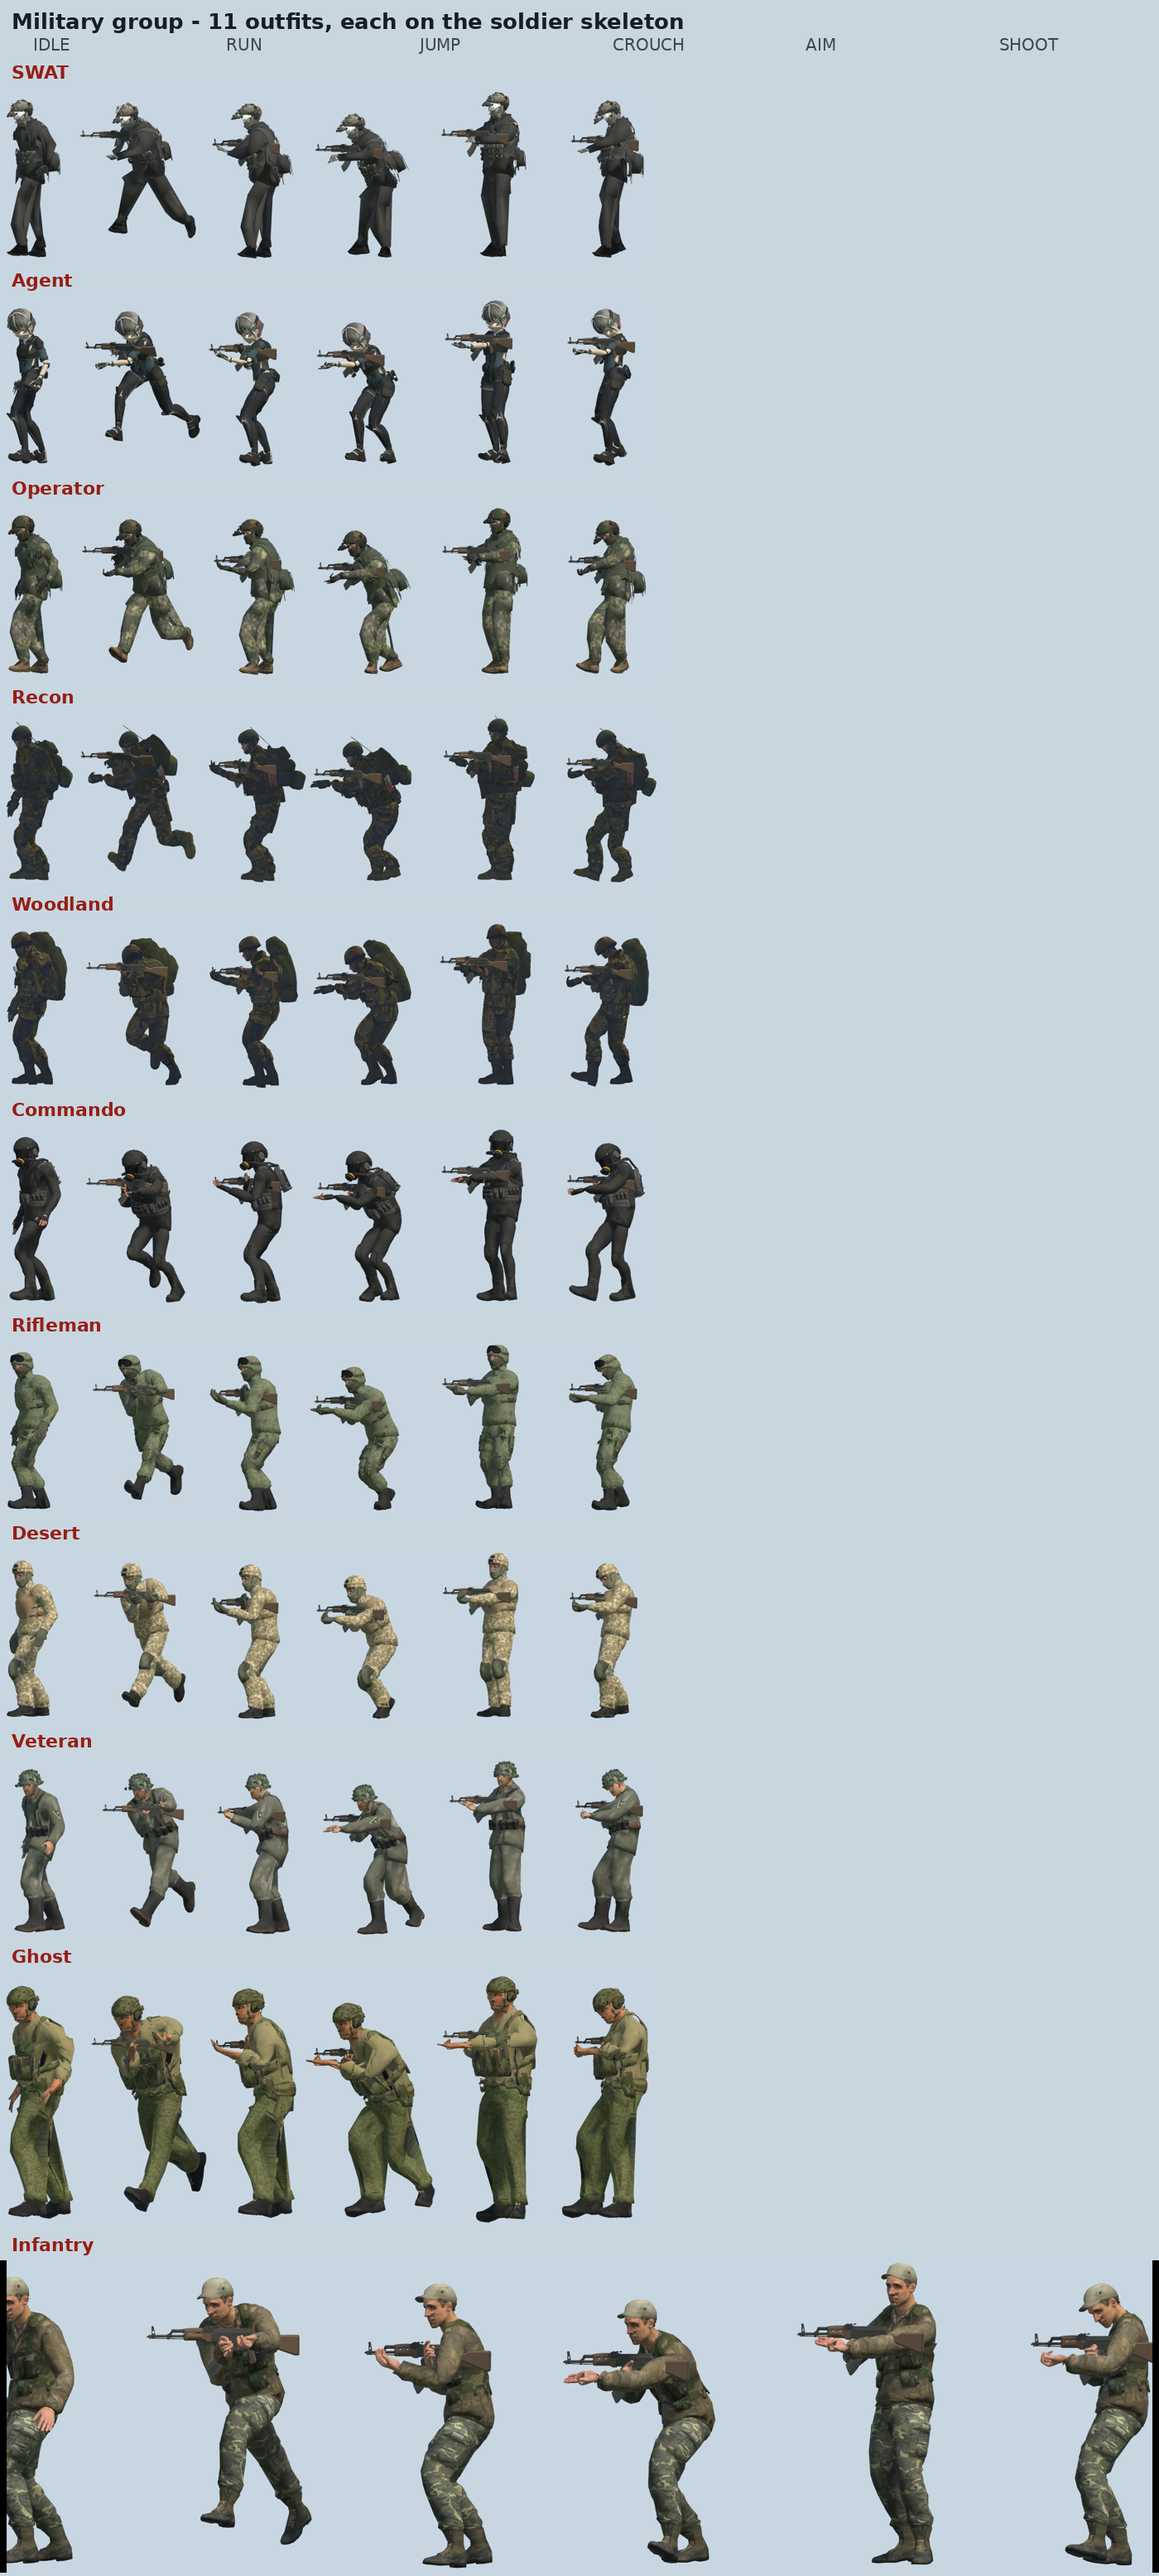
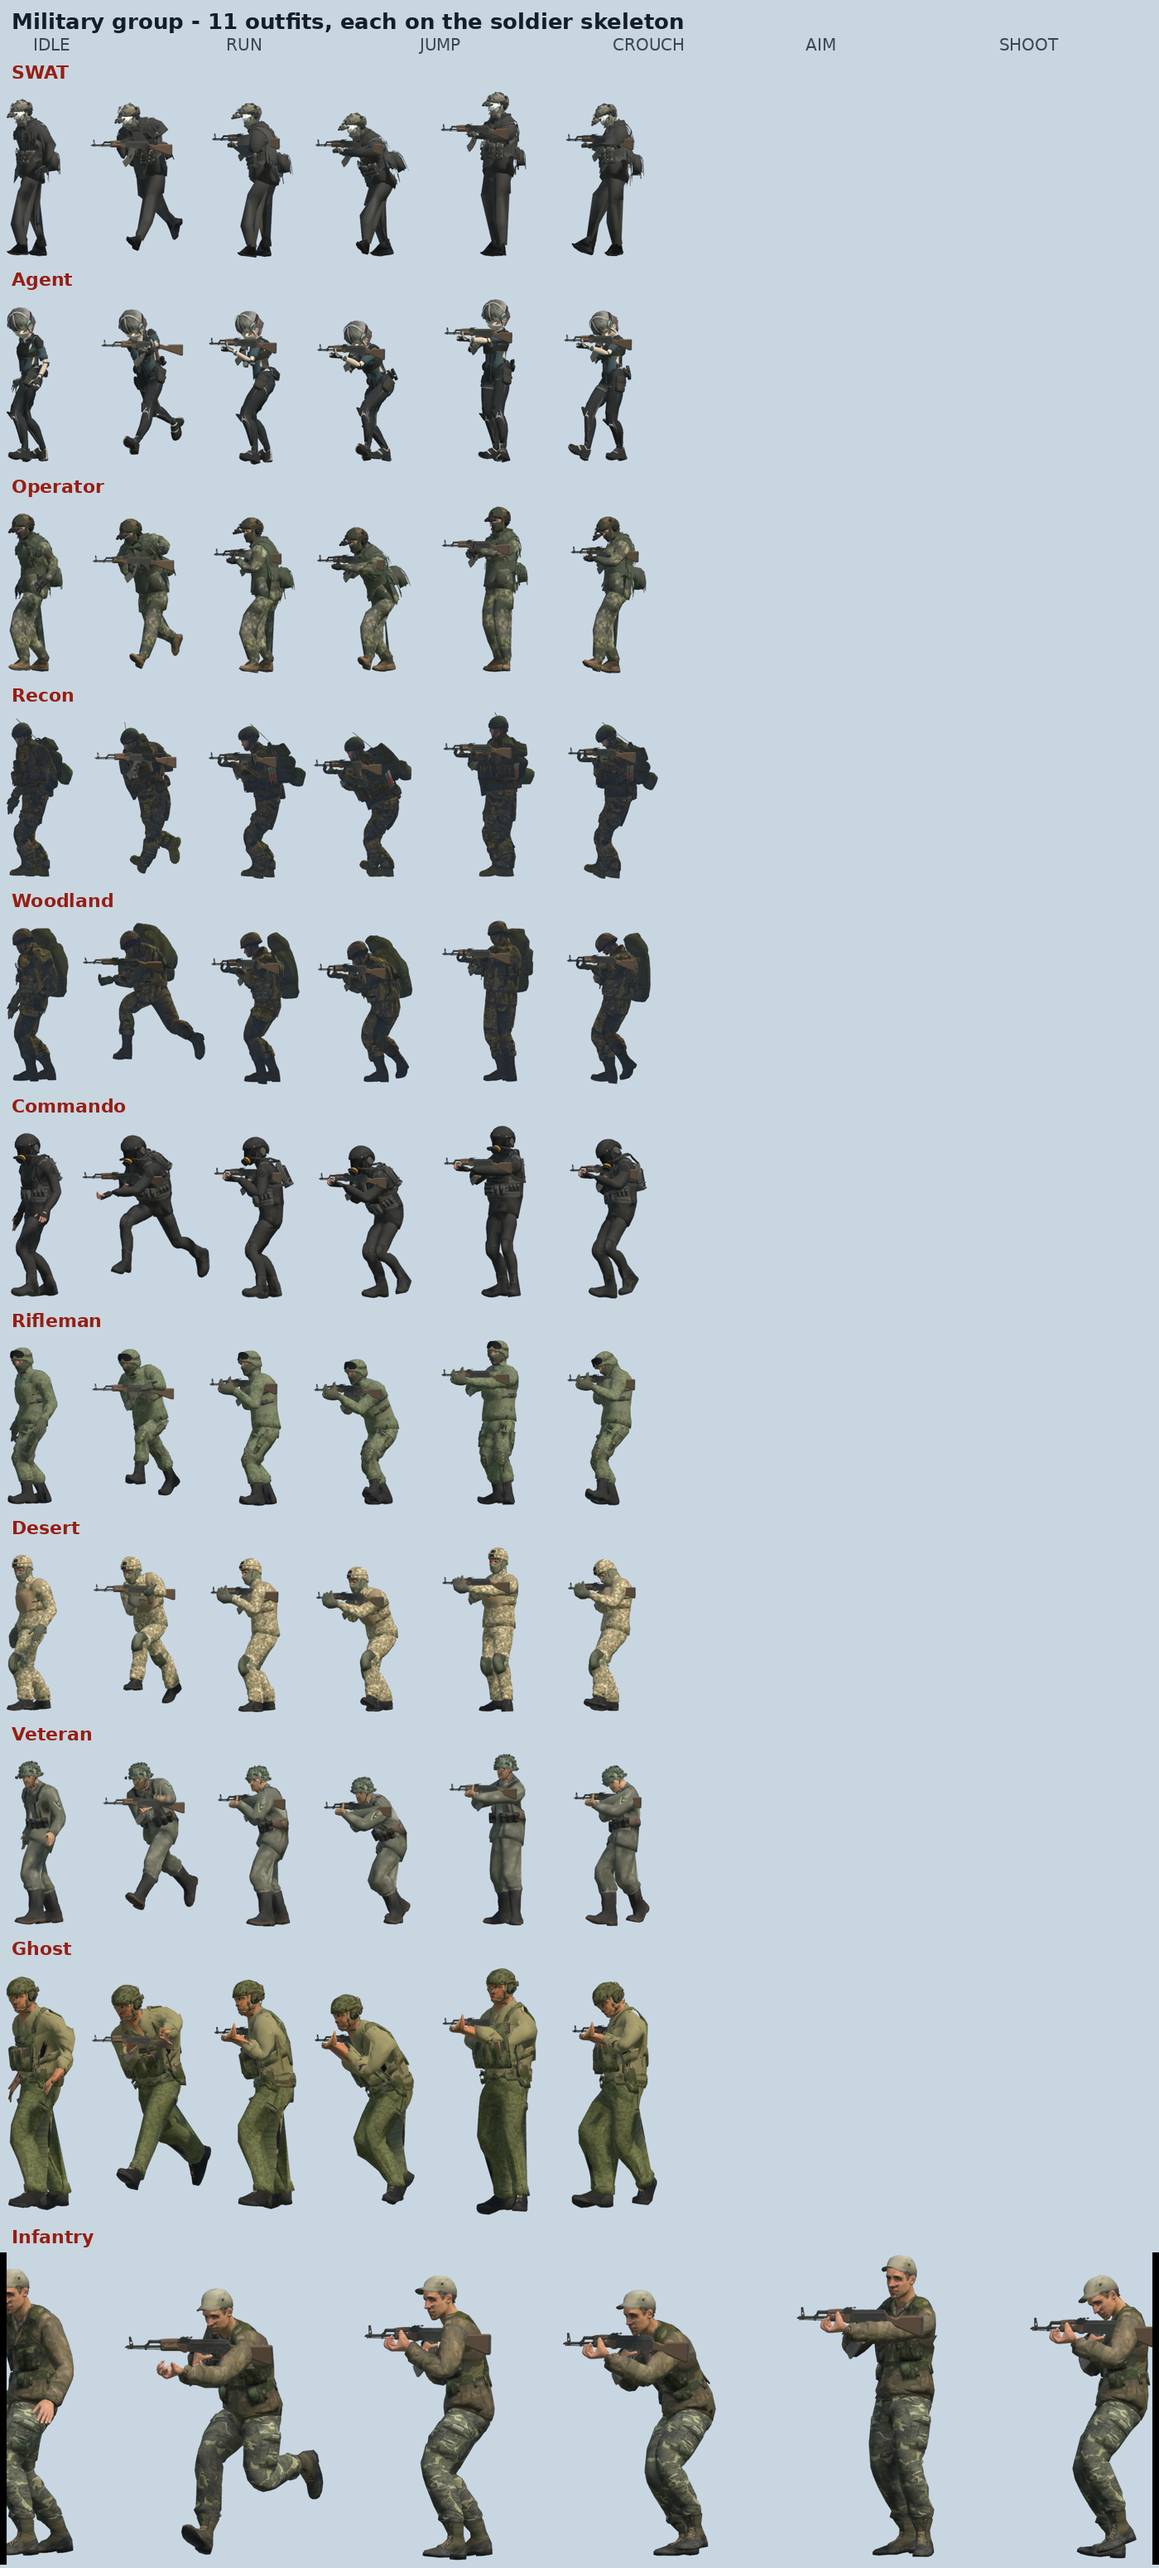
Validation report after the grip and hat fixes
Claude-Session: https://claude.ai/code/session_01Qk5AhTg9vjZDbHQRN5Qkh8

diff --git a/docs/validation/REPORT.md b/docs/validation/REPORT.md
@@ -1,23 +1,23 @@
-# Character validation (build af65fa2)
+# Character validation (build 2e0bbee)
 
-Test bench: WebGL lobby with `?grid=mil|q|mixmil|mixq&from=N&n=2` (rows = outfits, columns = IDLE / RUN / JUMP / CROUCH / AIM / SHOOT)
+Test bench: WebGL lobby with `?grid=mil|q|mixq&from=N&n=2` (rows = outfits, columns = IDLE / RUN / JUMP / CROUCH / AIM / SHOOT)
 and `?swap=1` (30 random outfit changes at runtime). Groups are strictly separated in code (`SoldierBody.Group`).
+
+## Decisions
+- Military outfits are worn whole only (no piece mixing). Piece tabs list only the Quaternius characters.
+- Pieces mix only inside the Quaternius group (one shared rig).
 
 ## Results
 | Test | Result |
 |---|---|
-| Military, 11 outfits individually | PASS (no neck / waist / ankle gaps, shoulders and elbows hold) |
-| Quaternius, 11 characters individually | PASS after rig fix (feet were stretched: IK rig) |
-| Quaternius, mixed pieces | PASS - shared rig, no gaps; hats can overlap (see below) |
-| Military, mixed pieces | FAIL - jagged waist seams, coat/legs clipping, distorted feet |
-| Runtime outfit switching (30 swaps, both groups) | PASS 30/30 - animator running, gun at the hand, all pieces present, groups never mixed |
+| Military, 11 outfits individually | PASS - no neck / waist / ankle gaps, shoulders and elbows hold |
+| Quaternius, 11 characters individually | PASS after the rig fix (the feet were stretched: IK rig) |
+| Quaternius, mixed pieces | PASS - one head / torso / legs / feet each, no gaps, no double hats |
+| Runtime outfit switching (30 swaps, both groups) | PASS 30/30 - animator running, gun at the hand, the right pieces only, groups never mixed |
+| Gun hold | right hand closed on the pistol grip, left hand under the handguard, fingers wrapped (procedural, both rigs) |
 
-## Open issues
-- All: the gun sits over the hands; the hands do not close on the grip / handguard (weapon hold, not skinning).
-- Quaternius: SHOOT frame - forearms cross in front of the face (twist from the fire clip).
-- Quaternius mixed: a head with a hat + a torso with a hat/crown overlap (Farmer, King, Tactical).
-- Military mixed: not usable - the outfits are single meshes cut by bone, from different bodies.
-
-## Corrections (only on duplicated assets; original FBX untouched in the scratchpad backups)
-- outfit_q_*.glb regenerated by scripts/unity/split-quaternius.mjs: feet re-parented under the shins, legs under the hips (world bind kept).
-- Runtime: Quaternius fingers keep their rest; end bones take their parent's rest correction; extra pieces sit on the leading skeleton's joints.
+## Fixed in this round
+- Hats overlapping: a Quaternius piece with several materials is split into sub-objects (`body_head_1`...) that were never hidden.
+- Quaternius rig (on the duplicated outfit_q_*.glb only, original FBX untouched): feet under the shins, legs under the hips.
+- Quaternius fingers: their first bones all start in the palm; the knuckles are found per rig.
+- Hand grip: fingers curled on the grip, support hand on the handguard, the forearm takes half the wrist twist.
